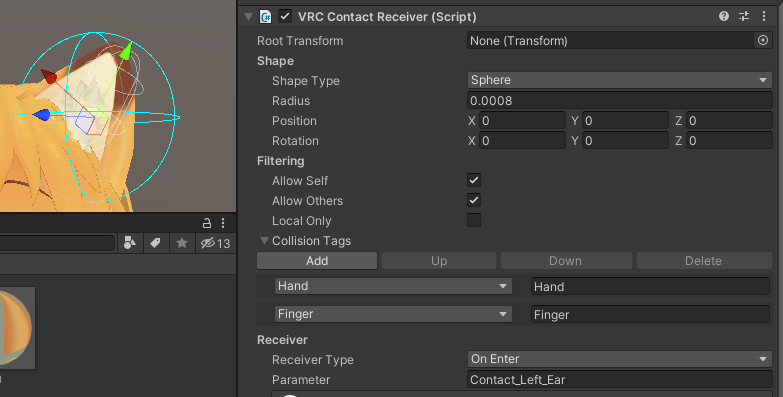
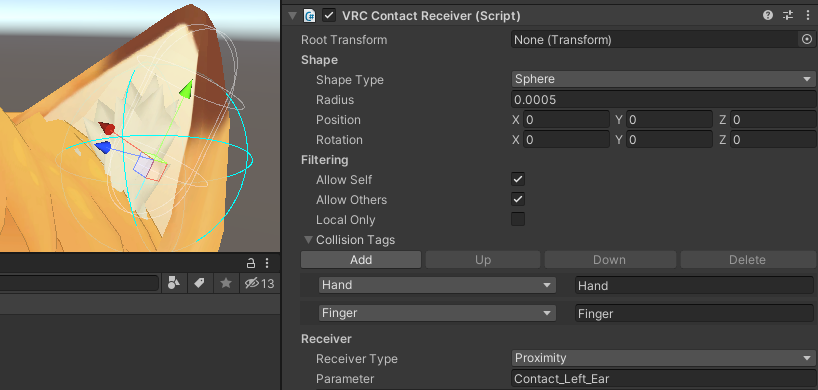
Proximityモードを追加

diff --git a/hapticonvrc/rumble_joycon.py b/hapticonvrc/rumble_joycon.py
@@ -1,7 +1,21 @@
 from pyjoycon import JoyCon
 
-RUMBLE_BYTES = ['00000001', '00000000', '00000100', '00000000'] * 2
-RUMBLE_DATA = bytes(list(map(lambda x: int(x, 2), RUMBLE_BYTES))) 
+RUMBLE_BYTES = ['00000001', '00000000', '00{amp_code}00', '00000000'] * 2
+AMP = [
+	'0001',
+	'0010',
+	'0011',
+	'0100',
+	'0101',
+	'0110',
+	'0111',
+	'1000',
+	'1001',
+	'1010',
+	'1011',
+	'1100',
+]
+AMP.reverse()
 
 
 # thanks to https://github.com/tocoteron/joycon-python/pull/27
@@ -9,11 +23,31 @@ class RumbleJoyCon(JoyCon):
 
     def __init__(self, *args, **kwargs):
         super().__init__(*args, **kwargs)
-
-    def send_rumble(self, data=RUMBLE_DATA):
         self._enable_vibration()
-        self._RUMBLE_DATA = data
+        self._amp_max = len(AMP)
+
+    def set_amp_max(self, amp: int) -> None:
+        if not (0 <= amp <= 12):
+            print('amp_maxは0以上12以下の整数にしてください')
+        amp = min(amp, 12)
+        amp = max(amp, 0)
+        self._amp_max = amp
+
+    def _enable_vibration(self) -> None:
+        self._write_output_report(b'\x01', b'\x48', b'\x01')
+
+    def send_rumble(self, amp: float = 1.) -> None:
+        self._RUMBLE_DATA = self._get_rumble_data(amp)
         self._write_output_report(b'\x10', b'', b'')
 
-    def _enable_vibration(self):
-        self._write_output_report(b'\x01', b'\x48', b'\x01')
+    def _get_rumble_data(self, amp: float) -> bytes:
+        data = RUMBLE_BYTES.copy()
+        amp_level = self._to_amp_level(amp)
+        data[2] = data[2].format(amp_code=AMP[amp_level])
+        data[6] = data[6].format(amp_code=AMP[amp_level])
+        return bytes(list(map(lambda x: int(x, 2), data))) 
+
+    def _to_amp_level(self, amp: float) -> int:
+        assert 0 <= amp <= 1
+        MAX = self._amp_max - 1
+        return int(amp * MAX)

diff --git a/hapticonvrc/core.py b/hapticonvrc/core.py
@@ -6,6 +6,7 @@ from pyjoycon import get_L_id, get_R_id
 from pythonosc.dispatcher import Dispatcher
 from pythonosc.osc_server import BlockingOSCUDPServer
 
+from hapticonvrc.rumble_engine.proximity_engine import ProximityEngine
 from hapticonvrc.rumble_engine.onenter_engine import OnEnterEngine
 
 from .rumble_joycon import RumbleJoyCon
@@ -45,13 +46,26 @@ class Core:
             time.sleep(3)
             exit(1)
 
+    def _create_engine(self, name, joycon):
+        if name == 'On Enter':
+            return OnEnterEngine(joycon)
+        elif name == 'Proximity':
+            return ProximityEngine(joycon)
+        else:
+            print(f'mode "{name}" は使用できません。"On Enter"または"Proximity"を指定してください。')
+            print('3秒後に終了します...')
+            time.sleep(3)
+            exit(1)
+
     def _create_engines(self) -> None:
         if self._config['contact_parameters']['L']['address']:
             joycon = self._create_joycon('L')
-            self._engine_l = OnEnterEngine(joycon)
+            joycon.set_amp_max(self._config['contact_parameters']['L']['amp_max'])
+            self._engine_l = self._create_engine(self._config['contact_parameters']['L']['mode'], joycon)
         if self._config['contact_parameters']['R']['address']:
             joycon = self._create_joycon('R')
-            self._engine_r = OnEnterEngine(joycon)
+            joycon.set_amp_max(self._config['contact_parameters']['R']['amp_max'])
+            self._engine_r = self._create_engine(self._config['contact_parameters']['R']['mode'], joycon)
 
     def start(self) -> None:
         self._print_name()

diff --git a/hapticonvrc/rumble_engine/proximity_engine.py b/hapticonvrc/rumble_engine/proximity_engine.py
@@ -1,0 +1,28 @@
+import math
+import random
+from typing import Any, TYPE_CHECKING
+
+from .base_engine import BaseEngine
+
+if TYPE_CHECKING:
+    from ..rumble_joycon import RumbleJoyCon
+
+
+class ProximityEngine(BaseEngine):
+
+    def __init__(self, joycon: 'RumbleJoyCon') -> None:
+        self._prev = 0
+        self._latest = 0
+        super().__init__(joycon)
+
+    def _get_current_amp(self) -> float:
+        diff = abs(self._latest - self._prev)
+        if not diff:
+            return 0
+        rand = math.exp(-(10 * random.random())**2)
+        amp = min(rand + diff*5, 1)
+        self._prev = self._latest
+        return amp
+
+    def update(self, value: float) -> None:
+        self._latest = value

diff --git a/hapticonvrc/rumble_engine/base_engine.py b/hapticonvrc/rumble_engine/base_engine.py
@@ -1,3 +1,5 @@
+from threading import Thread
+from time import sleep
 from typing import Any, TYPE_CHECKING
 
 if TYPE_CHECKING:
@@ -8,6 +10,18 @@ class BaseEngine:
 
     def __init__(self, joycon: 'RumbleJoyCon') -> None:
         self._joycon = joycon
+        self._thread = Thread(target=self._loop, daemon=True)
+        self._thread.start()
+
+    def _loop(self):
+        while True:
+            amp = self._get_current_amp()
+            if amp:
+                self._joycon.send_rumble(amp)
+            sleep(0.01)
+
+    def _get_current_amp(self) -> float:
+        raise RuntimeError()
 
     def update(self, value: Any) -> None:
         pass

diff --git a/hapticonvrc/rumble_engine/onenter_engine.py b/hapticonvrc/rumble_engine/onenter_engine.py
@@ -9,8 +9,13 @@ if TYPE_CHECKING:
 class OnEnterEngine(BaseEngine):
 
     def __init__(self, joycon: 'RumbleJoyCon') -> None:
+        self._current_value = False
         super().__init__(joycon)
 
+    def _get_current_amp(self):
+        res = int(self._current_value)
+        self._current_value = False
+        return res
+
     def update(self, value: bool) -> None:
-        if value:
-            self._joycon.send_rumble()
+        self._current_value = True
